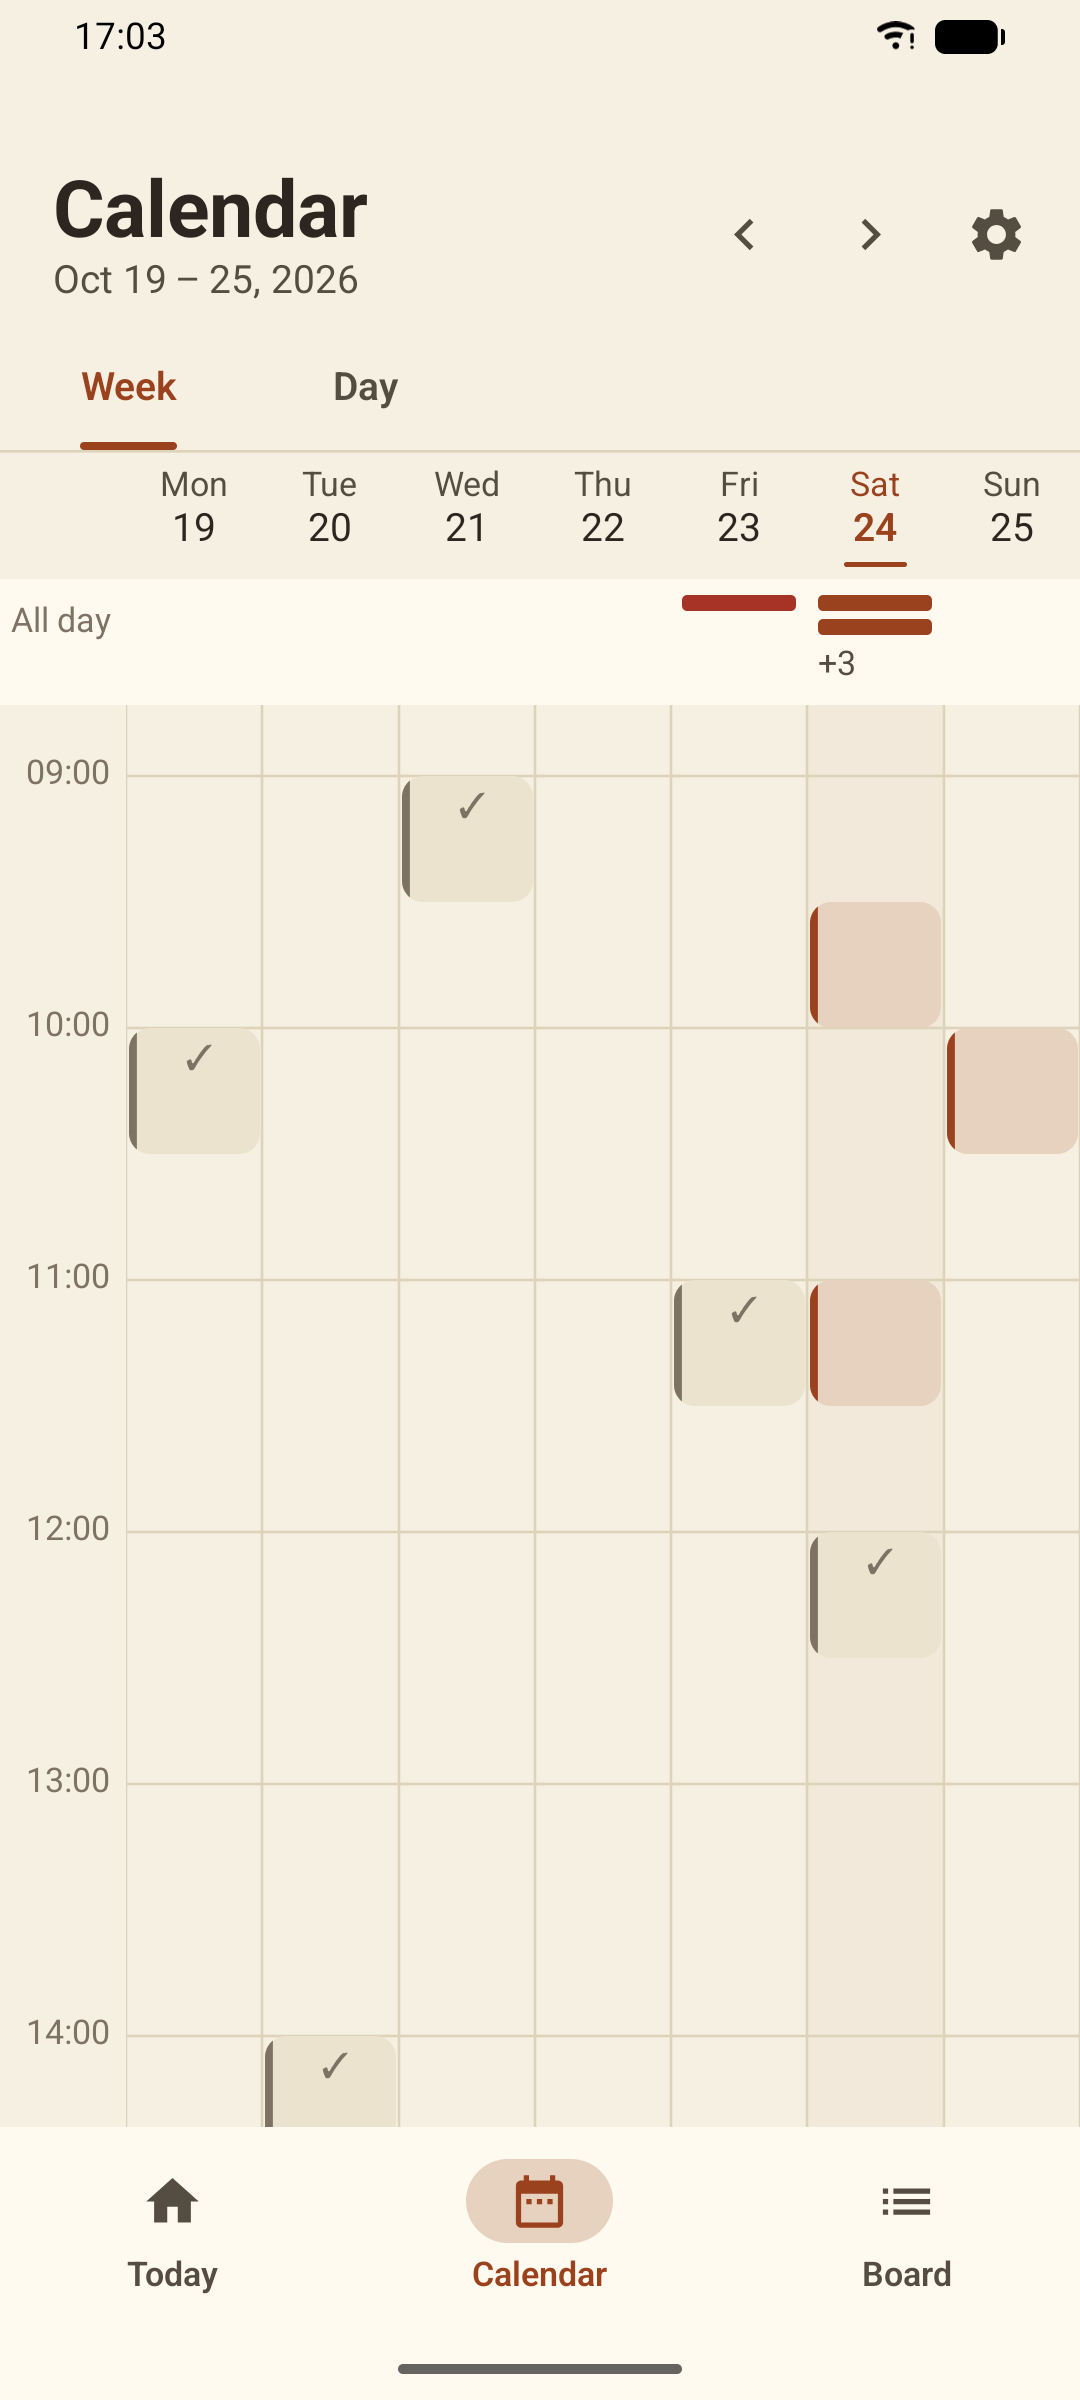
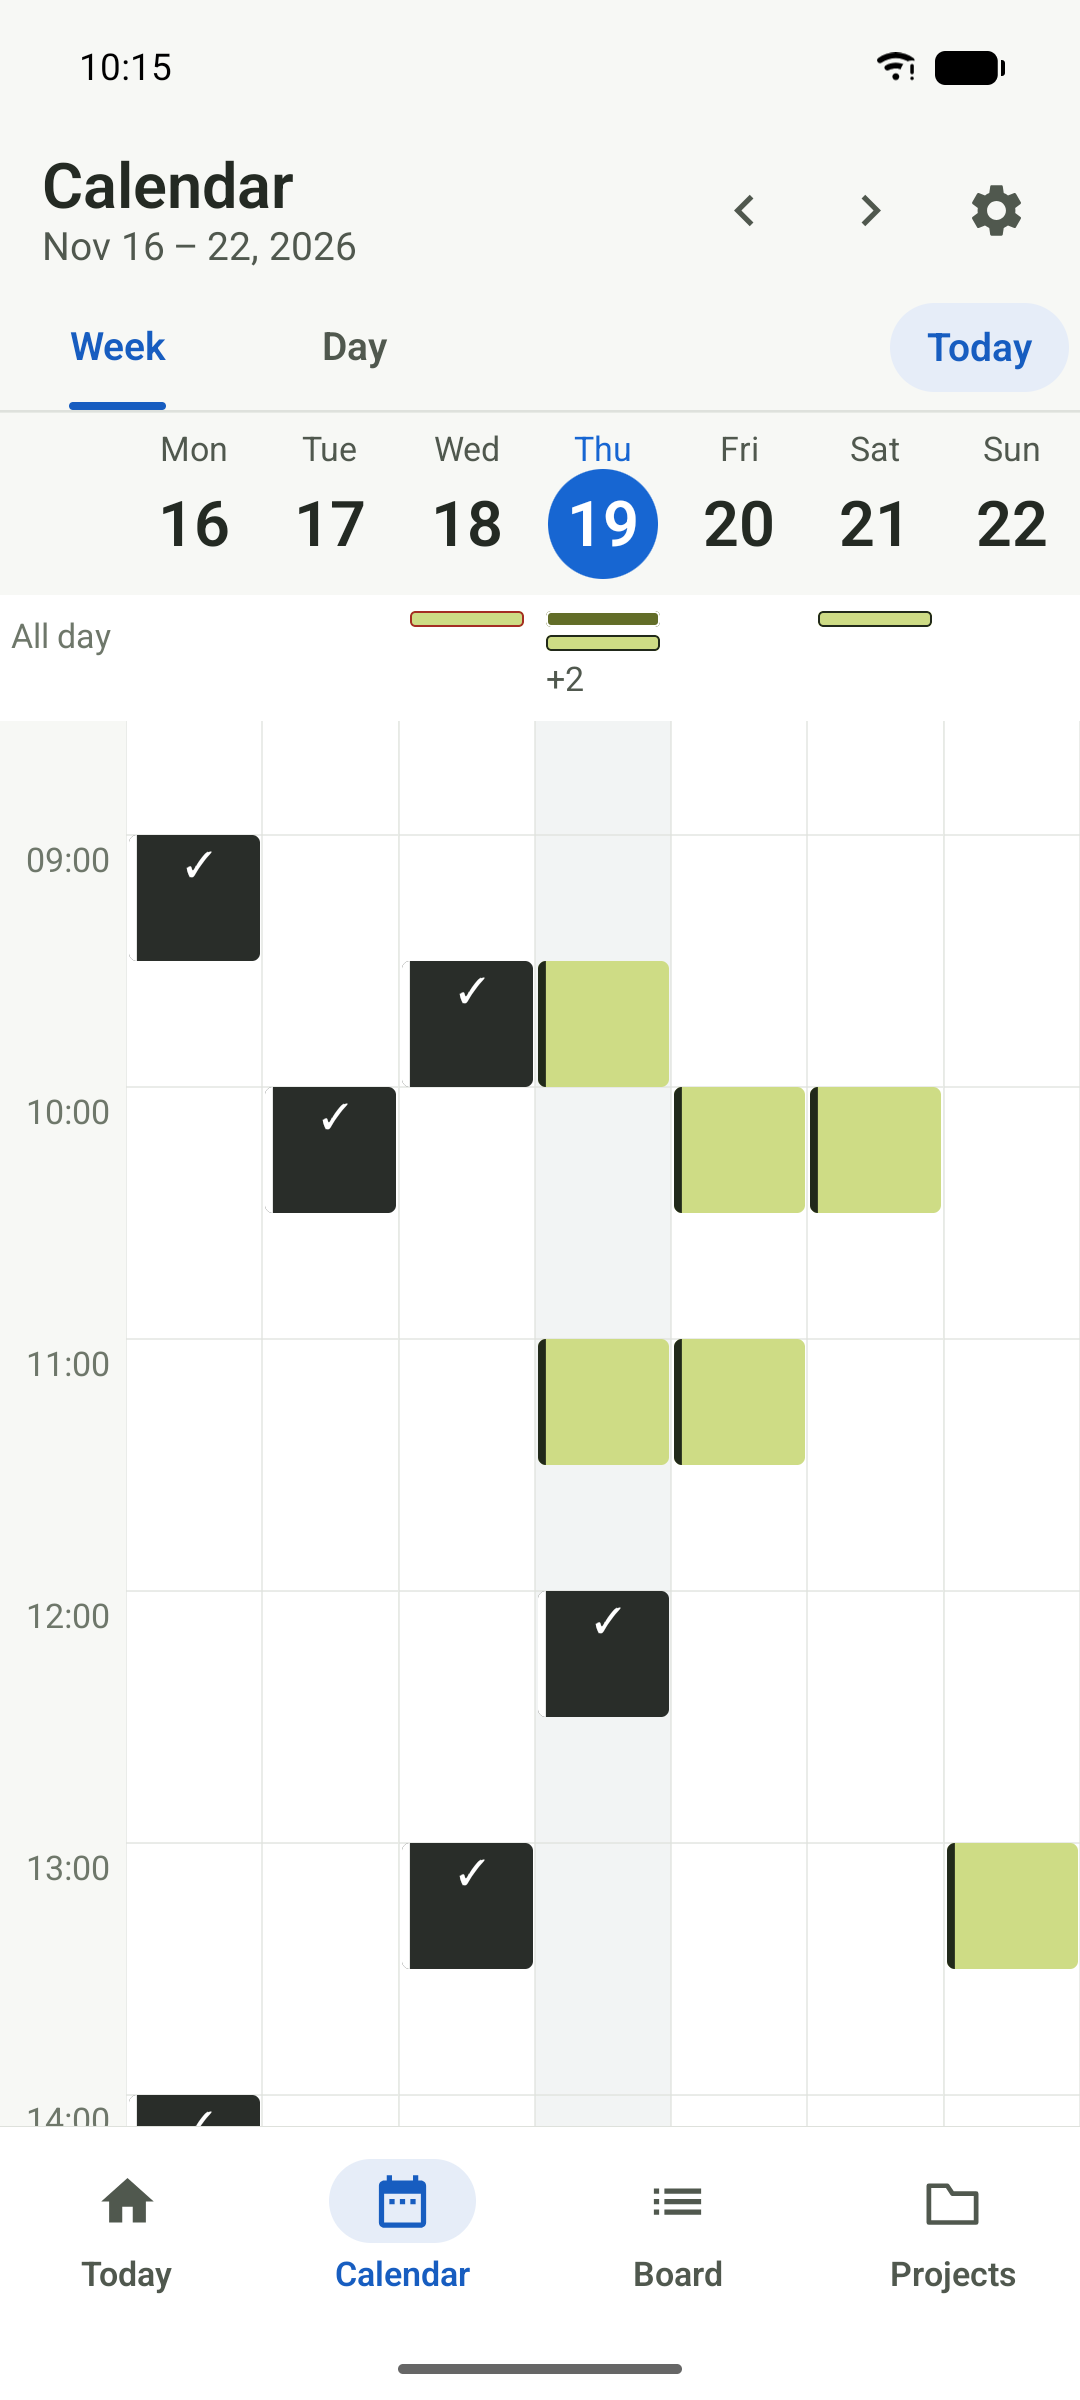
feat(site): replace every app screenshot with the current look from main
The hero now shows the Mac week plan drawn by DayhandSnapshots at 2x (2200 px), and the Mac projects and history images come from the same tool. Every Android screen was captured again from a main debug build on an emulator against a throwaway local backend with sample data: Today, the board, the week calendar, the claim, the approval request, the proof, the Agents screen and the approval notification. Alt texts, crop offsets and srcset widths follow the new images, and STYLE.md says how they are made.

diff --git a/site/src/styles/home.css b/site/src/styles/home.css
@@ -148,10 +148,10 @@
   mask-image: linear-gradient(black 72%, transparent);
 }
 .crop .phone { inline-size: min(100%, 16rem); margin-block-start: calc(min(100%, 16rem) * 2400 / 1080 * var(--crop-start) * -1); }
-.crop.claim { --crop-start: 0.2; }
-.crop.ask { --crop-start: 0.31; }
-.crop.prove { --crop-start: 0.34; }
-.crop.policies { --crop-start: 0.39; }
+.crop.claim { --crop-start: 0.58; }
+.crop.ask { --crop-start: 0.105; }
+.crop.prove { --crop-start: 0.105; }
+.crop.policies { --crop-start: 0.23; }
 .rules { display: grid; justify-items: center; gap: var(--space-s); }
 .rules .notice { inline-size: min(100%, 22rem); }
 

diff --git a/site/STYLE.md b/site/STYLE.md
@@ -87,14 +87,14 @@ are configured in `wrangler.toml`.
 
 ## Screenshots
 
-Every screenshot shows the real apps, built from this repository, on sample data: a one-person
-business's day with its agents, entered into a throwaway local backend. Never take them on a real plan or a
-real account. The Mac app ran under its own bundle id with its own data folder and no keychain entry; the
-Android app ran on an emulator with the demo-mode status bar. App screens have light and dark files, which
+Every screenshot shows the real apps, built from this repository's `main`, on sample data; never take them on
+a real plan or a real account. The Android screens (`android-*`) show a one-person business's day with its agents,
+entered with the `dayhand` command into a throwaway local backend, on an emulator (1080 × 2400, 420 dpi) with the
+demo-mode status bar. The Mac screens (`mac-plan-*`, `mac-projects-*`, `mac-history-*`) are drawn from the app's
+own views by `swift run DayhandSnapshots` in `macos/`, on its built-in sample plan and with no server, at twice
+their size in points: `plan-today-1100`, `project-1100` and the top 1100 pixels of `panel`. The light plan and
+project files are cropped to the dark ones' frame, which has no toolbar. App screens have light and dark files, which
 `<picture>` swaps by `prefers-color-scheme`; the notification uses the same light capture in both themes.
-The Mac projects screen (`mac-projects-*`) is drawn from the app's own views by `swift run DayhandSnapshots`,
-on its built-in sample plan and with no server; the light file is cropped to the dark one's frame, which has no
-toolbar.
 
 The files in `src/assets/screens/` are lossless WebP at capture resolution, except for the notification,
 which is cropped to its card. The build makes smaller WebP files at the widths each place asks for, with
